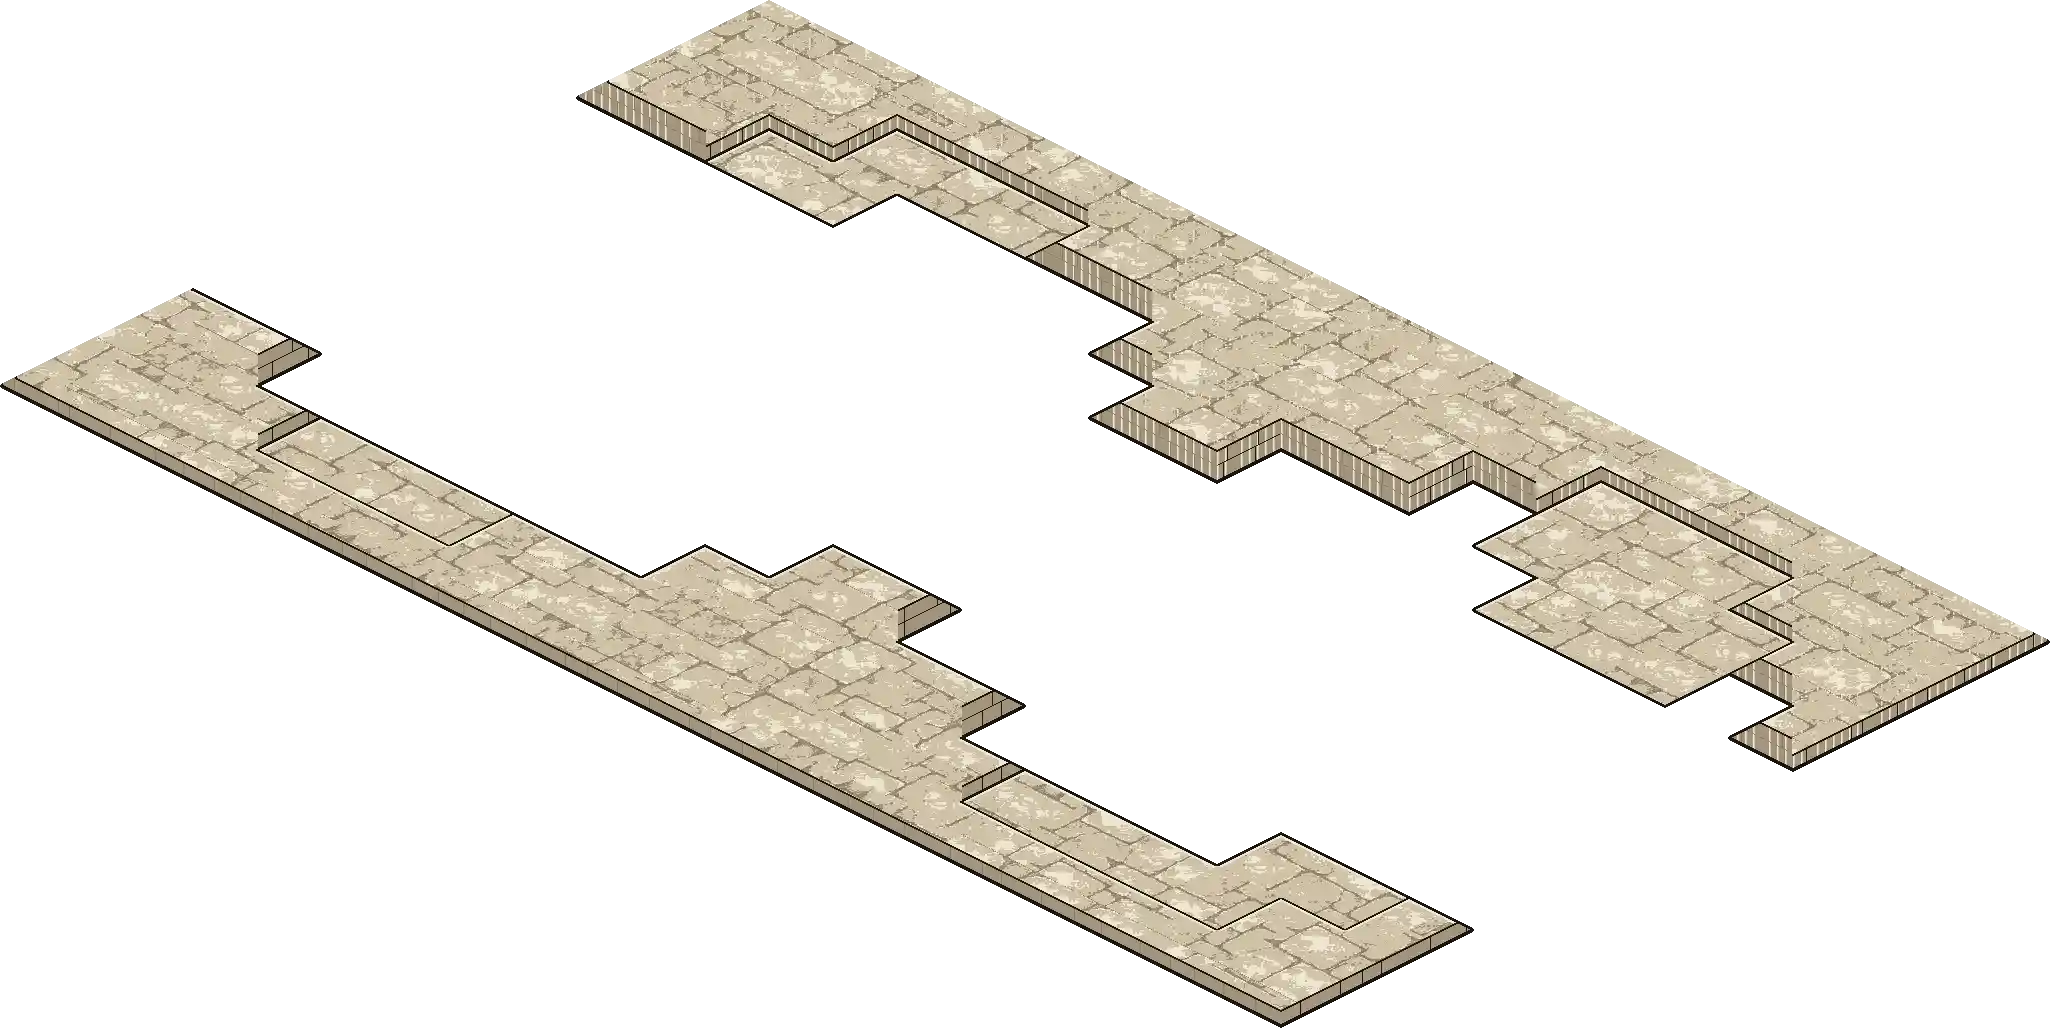
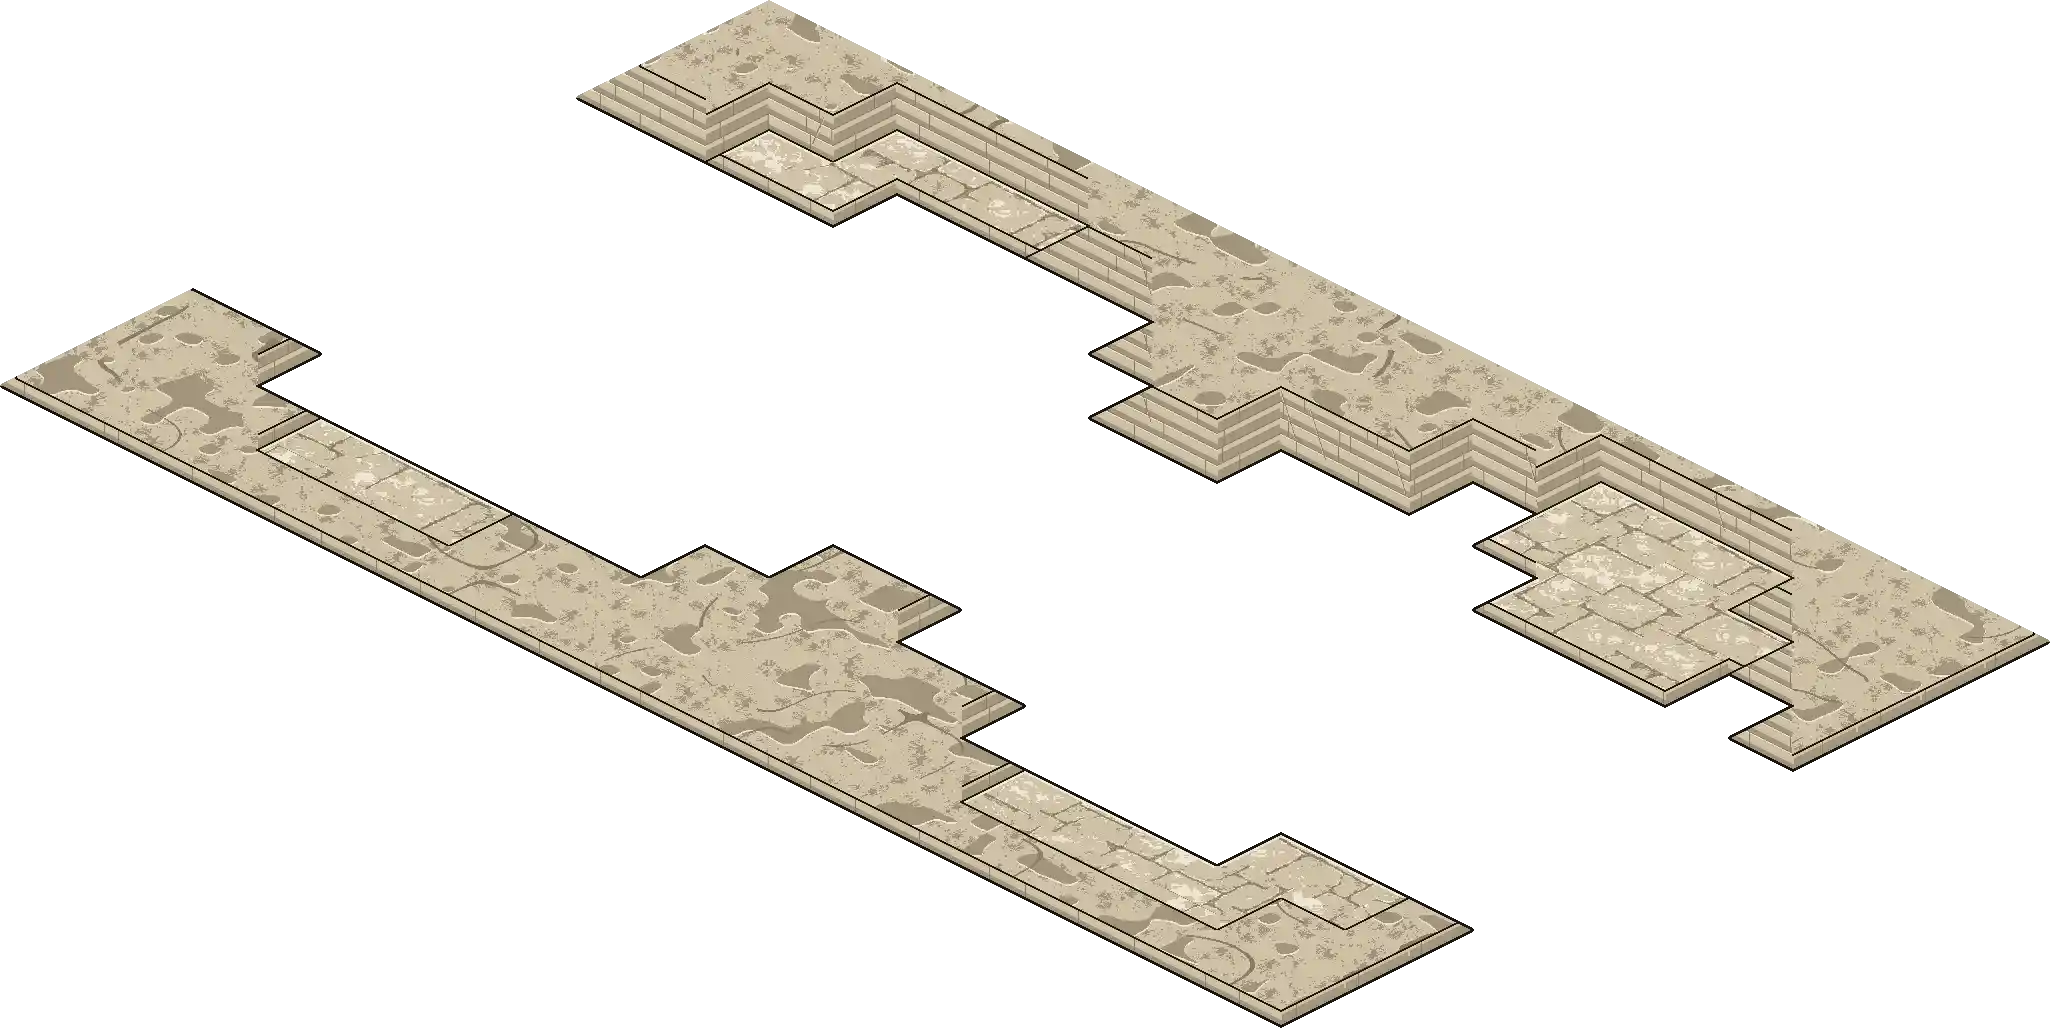
Stand the Cutting's north cut four courses tall over rough rock tops and faced ledges
Replaces the every-8px drill scars, which read as a picket fence, with a few
leaning gouges on the tall north faces only. The stone page's window span is
held inside the 1.25 limit by the art (lit course banding, joint-tone right-face
joints, a one-pixel foot), not by moving the limit.

Changed region(s): [[0.281, 0.0, 0.999, 0.7471], [0.0, 0.2802, 0.718, 0.9961]]

diff --git a/scripts/art/cutting-rock.ts b/scripts/art/cutting-rock.ts
@@ -1,0 +1,189 @@
+/**
+ * The Cutting's raised ground (M5, plan 1.5): its `X` rock and its tier-1 `^`
+ * ledges, painted into the stone page the way `quarry-rock.ts` stands the
+ * gate's and the Driller's rock — each surface lifted by its height, and a
+ * pixel whose lifted top would already be off the surface is the block face
+ * instead, so every face stands straight up from a down-screen (+x/+y) edge
+ * inside the rules' own cells and never paints over a playable one.
+ *
+ * It is its own painter, not the shared one, for three reasons the round-2
+ * review gave (M5 A3):
+ *
+ * - **The back edge is sheer and tall.** The north cut (rows 0 to
+ *   `CUTTING_NORTH_FACE_LAST_ROW`) stands `NORTH_RISE`, four courses over the
+ *   road and three over a ledge, where the shared painter caps every face at
+ *   two. The south run keeps the shared heights — two courses over the bays,
+ *   one over a ledge, and a one-course lip at the board's edge — so nothing
+ *   tall stands between the camera and the southern bays. All of it is ground
+ *   page under the units, so a tall face can never hide one.
+ * - **Rock and ledge read apart.** A ledge is walkable, so it keeps the dressed
+ *   `block` paving and gains a one-course face of its own. The rock is not, so
+ *   its top is rough: the `block` tones laid over the spoil row's chipped
+ *   structure, small chipped hollows and long joint-tone fissures, and no
+ *   slab joints at all.
+ * - **Scars are few.** A drill scar every 8 px read as a picket fence along
+ *   every face. Now a tall north face carries at most one long leaning gouge
+ *   in a `GOUGE_SPAN`-pixel stretch, in fewer than half of them, and the
+ *   other faces none.
+ *
+ * The taller faces are also what pushed the stone page's darkest window past
+ * the §3 span of 1.25 (to 1.43). The limit is not moved; the lit course
+ * banding, the joint-tone joints on the right-facing wall and the one-pixel
+ * foot bring it back inside, which `quarry-route-ground.test.ts` holds.
+ */
+import { parseHex } from './lib/image';
+import { tileNoise } from '../../src/render/painters/shapes';
+import { fieldNoise, QUARRY_GROUND_TONES } from './quarry-village-material';
+import type { QuarryMaterial, Rgb } from './quarry-village-material';
+import type { MapDef } from '../../src/core/types';
+
+/** One course of cut block, as the shared rock's (`ROCK_COURSE`). */
+export const COURSE = 16;
+/** The rows of the north cut, the face the road was driven through. */
+export const CUTTING_NORTH_FACE_LAST_ROW = 3;
+/** How high the north cut's rock stands above the road: four courses. */
+export const NORTH_RISE = 4 * COURSE;
+/** How high the south run's rock stands above its bays: two courses. */
+export const SOUTH_RISE = 2 * COURSE;
+/** A tier-1 ledge stands one course, as the forest's shelf does. */
+export const LEDGE_RISE = COURSE;
+/** One gouge at most in every stretch of this many pixels along a tall face. */
+export const GOUGE_SPAN = 72;
+/** The share of stretches that draw one. */
+const GOUGE_SHARE = 0.4;
+
+/** A cut block runs this far along its course, give or take: a bench, not brickwork. */
+const BLOCK = 56;
+/** How finely the hollows break the rock's top, per tile. */
+const HOLLOW_SCALE = 3.2;
+/** How far down each course its lit upper band reaches, rim line included. */
+const CHAMFER = 10;
+/** Where the smooth field breaks the rock's top into a hollow. */
+const HOLLOW = 0.72;
+const LIP_INK = 2;
+/** The foot takes one pixel; the footprint's own ink line either side does the rest. */
+const FOOT_INK = 1;
+
+/** Logical coordinates of a world pixel. */
+const logical = (wx: number, wy: number): { x: number; y: number } => ({
+  x: ((wx - 768) / 64 + wy / 32) / 2,
+  y: (wy / 32 - (wx - 768) / 64) / 2,
+});
+
+export type RaisedPainter = (
+  material: QuarryMaterial,
+  wx: number,
+  wy: number,
+  rim: boolean,
+) => Rgb | null;
+
+/**
+ * The painter for the Cutting's `X` and `^` pixels, or null for any other
+ * cell. `rim` is whether the pixel sits in the lit rim of its cell's
+ * up-screen edge; only a ledge top takes it, since the rock's top is rough.
+ */
+export function cuttingRaised(map: MapDef): RaisedPainter {
+  const keyAt = (wx: number, wy: number): { key: string | undefined; y: number } => {
+    const { x, y } = logical(wx, wy);
+    return { key: map.rows[Math.floor(y)]?.[Math.floor(x)], y: Math.floor(y) };
+  };
+  /** How far a cell's surface stands above the road, in world pixels. */
+  const height = (key: string | undefined, row: number): number =>
+    key === 'X'
+      ? row <= CUTTING_NORTH_FACE_LAST_ROW
+        ? NORTH_RISE
+        : SOUTH_RISE
+      : key === '^'
+        ? LEDGE_RISE
+        : 0;
+  const block = QUARRY_GROUND_TONES.block;
+  const tone = {
+    base: parseHex(block.base),
+    shadow: parseHex(block.shadow),
+    rim: parseHex(block.rim),
+    joint: parseHex(block.joint),
+  } as const;
+
+  /** The rough top of the rock at a logical point. */
+  const roughTop = (material: QuarryMaterial, x: number, y: number): Rgb => {
+    // Long fissures: the level line of a smooth field, broken where a second
+    // field says the crack has closed.
+    const crack = Math.abs(fieldNoise(x * 0.9, y * 0.9, 91) - 0.5);
+    if (crack < 0.012 && fieldNoise(x * 1.7, y * 1.7, 93) > 0.45) return tone.joint;
+    // Chipped hollows where the last lift was levered off: small patches of
+    // the shadow, their broken near lip catching the light.
+    const hollowAt = (hx: number, hy: number): boolean =>
+      fieldNoise(hx * HOLLOW_SCALE + 3, hy * HOLLOW_SCALE + 7, 95) > HOLLOW;
+    if (hollowAt(x, y)) return hollowAt(x + 0.025, y + 0.025) ? tone.shadow : tone.rim;
+    // Elsewhere the spoil row's chipped structure, turned off the grid, in the
+    // block's own tones and without its sparkle: rock, not a laid slab.
+    return material.classOf('spoil', (x + y) * 1.1 + 17, (y - x) * 1.1 + 5) === 'shadow'
+      ? tone.shadow
+      : tone.base;
+  };
+
+  return (material, wx, wy, rim) => {
+    const here = keyAt(wx, wy);
+    const own = height(here.key, here.y);
+    if (own <= 0) return null;
+    // Walk down-screen to the first ground lower than this surface.
+    let drop = 1;
+    let front = keyAt(wx, wy + drop);
+    while (drop <= own && height(front.key, front.y) >= own) front = keyAt(wx, wy + ++drop);
+    // Off the board the rock stands one course over the surround's terrace.
+    const rise = front.key === undefined ? COURSE : own - height(front.key, front.y);
+    if (drop > rise) {
+      const top = logical(wx, wy + own);
+      if (here.key === '^')
+        return rim ? material.rimOf('block') : material.colour('block', top.x, top.y);
+      return roughTop(material, top.x, top.y);
+    }
+    const foot = logical(wx, wy + drop - 1);
+    const exit = logical(wx, wy + drop);
+    const right =
+      Math.floor(exit.x) > Math.floor(foot.x) && Math.floor(exit.y) === Math.floor(foot.y);
+    const face = drop - 1;
+    if (drop > rise - LIP_INK || face < FOOT_INK) return material.ink;
+    const course = Math.floor(face / COURSE);
+    // Blocks break joint course to course, and each runs its own length.
+    const run = Math.floor(wx) + course * (BLOCK / 2);
+    const index = Math.floor(run / BLOCK);
+    const jointAt = index * BLOCK + 4 + Math.floor(tileNoise(index, course, 7) * (BLOCK - 8));
+    const joint = face % COURSE === 0 || run === jointAt;
+    if (joint) return tone.joint;
+    // Each course catches the light on its upper arris: on the left-facing
+    // wall a pale line under the joint, a band of the base, then the shadow;
+    // on the right-facing wall, turned further from the light, a narrower band
+    // and no pale line. It is what stacks the courses into height, and it is
+    // also what keeps a window full of tall face inside the §3 span of the
+    // paving.
+    const up = face % COURSE;
+    if (right) return up >= COURSE - CHAMFER / 2 ? tone.base : tone.shadow;
+    if (rise >= 3 * COURSE) {
+      const gouge = gougeAt(wx, face, rise);
+      if (gouge) return tone[gouge];
+    }
+    return up >= COURSE - 1 ? tone.rim : up >= COURSE - CHAMFER ? tone.base : tone.shadow;
+  };
+}
+
+/**
+ * A plug-and-feather gouge on a tall north face: one long groove, leaning,
+ * from under the top lip down most of the face, in one stretch of
+ * `GOUGE_SPAN` pixels out of every few. Its floor is the joint tone and its
+ * lit side one pixel of the block's base.
+ */
+function gougeAt(wx: number, face: number, rise: number): 'joint' | 'base' | null {
+  const stretch = Math.floor(wx / GOUGE_SPAN);
+  if (tileNoise(stretch, 0, 13) > GOUGE_SHARE) return null;
+  const top = rise - LIP_INK - 3 - Math.floor(tileNoise(stretch, 1, 13) * 6);
+  const length = Math.floor(rise * (0.5 + 0.3 * tileNoise(stretch, 2, 13)));
+  if (face > top || face < top - length) return null;
+  const start =
+    stretch * GOUGE_SPAN + 12 + Math.floor(tileNoise(stretch, 3, 13) * (GOUGE_SPAN - 24));
+  const lean = tileNoise(stretch, 4, 13) > 0.5 ? 0.35 : -0.35;
+  const at = start + Math.round((top - face) * lean);
+  const column = Math.floor(wx);
+  if (column === at) return 'joint';
+  return column === at - Math.sign(lean) ? 'base' : null;
+}

diff --git a/scripts/art/quarry-route-ground.ts b/scripts/art/quarry-route-ground.ts
@@ -56,6 +56,7 @@ import {
   QUARRY_GROUND_TONES,
 } from './quarry-village-material';
 import { ROCK_COURSE, rockPainter } from './quarry-rock';
+import { cuttingRaised } from './cutting-rock';
 import type { QuarryMaterial, QuarryTone, Rgb } from './quarry-village-material';
 
 /** One logical tile is 64x32 scene pixels; see `forest-route-ground.ts`. */
@@ -214,54 +215,6 @@ function cellAt(px: number, py: number): { gx: number; gy: number; x: number; y:
   return { gx, gy, x: Math.floor(gx), y: Math.floor(gy) };
 }
 
-/**
- * The last row of the Cutting's north wall: rows 0-3 are the cut the road was
- * driven through, rows 8-11 the sawn south lip facing the camera.
- */
-export const CUTTING_NORTH_FACE_LAST_ROW = 3;
-/** One drill scar every this many world pixels along a face, give or take a missed hole. */
-export const DRILL_PITCH = 8;
-
-/**
- * Plug-and-feather drill scars on the Cutting's north faces (M5, plan 1.5):
- * the half-pipe each drilled hole leaves when the block splits away, one
- * every `DRILL_PITCH` pixels, the odd one missed. Each runs the whole height of
- * the face as the half-pipe's lit side — a pixel of the `block` rim, then one
- * of its base, with the face's own shadow as the groove's floor — so they read
- * as tooling on the one rock the gate and the Driller share and the palette
- * stays the rock's own. A dark groove would push the stone page's darkest
- * window (the NE ledge's corner, where the faces crowd) outside the §3 span of
- * its paving; the lit side lifts it instead. Only
- * the face's field is scarred — its course joints, lip ink and top are left as
- * the shared painter draws them — and the south faces stay a clean sawn lip.
- * Every other map's rock is passed through untouched.
- */
-function drillScars(map: MapDef, paint: ReturnType<typeof rockPainter>): typeof paint {
-  if (map.id !== AMBUSH_ROAD.id) return paint;
-  const field = parseHex(QUARRY_GROUND_TONES.block.shadow);
-  const lip = parseHex(QUARRY_GROUND_TONES.block.rim);
-  const scar = parseHex(QUARRY_GROUND_TONES.block.base);
-  return (material, wx, wy, rim) => {
-    const rgb = paint(material, wx, wy, rim);
-    if (rgb[0] !== field[0] || rgb[1] !== field[1] || rgb[2] !== field[2]) return rgb;
-    const { y } = logicalCell(wx, wy);
-    if (y > CUTTING_NORTH_FACE_LAST_ROW) return rgb;
-    const column = Math.floor(wx);
-    const hole = Math.floor(column / DRILL_PITCH);
-    const across = column % DRILL_PITCH;
-    if (across > 1 || tileNoise(hole, 0, 13) < 0.2) return rgb;
-    return across === 0 ? lip : scar;
-  };
-}
-
-/** The cell a world pixel falls in. */
-function logicalCell(wx: number, wy: number): { x: number; y: number } {
-  return {
-    x: Math.floor(((wx - 768) / 64 + wy / 32) / 2),
-    y: Math.floor((wy / 32 - (wx - 768) / 64) / 2),
-  };
-}
-
 export function packQuarryGround(
   map: MapDef,
   material: QuarryMaterial,
@@ -273,14 +226,14 @@ export function packQuarryGround(
   const spoilFloor = openFloor(map, 'spoil');
   const earthFloor = openFloor(map, 'earth');
   // The terrace wall's faces follow the tiers in front of them.
-  const rockPixel = drillScars(
-    map,
-    rockPainter(map.rows, (key) =>
-      key === undefined
-        ? ROCK_COURSE
-        : Math.max(0, 2 - (map.legend[key]?.elevation ?? 0)) * ROCK_COURSE,
-    ),
+  const rockPixel = rockPainter(map.rows, (key) =>
+    key === undefined
+      ? ROCK_COURSE
+      : Math.max(0, 2 - (map.legend[key]?.elevation ?? 0)) * ROCK_COURSE,
   );
+  // The Cutting stands its rock and its ledges with its own painter
+  // (`cutting-rock.ts`): a tall north cut, rough rock tops, faced ledges.
+  const raised = map.id === AMBUSH_ROAD.id ? cuttingRaised(map) : null;
 
   for (let py = 0; py < QUARRY_PAGE.height; py++)
     for (let px = 0; px < QUARRY_PAGE.width; px++) {
@@ -382,14 +335,18 @@ export function packQuarryGround(
 
       const wx = QUARRY_PAGE.x + px + 0.5,
         wy = QUARRY_PAGE.y + py + 0.5;
+      const lifted =
+        edge < INK_HALF ? null : raised?.(material, wx, wy, lit && edge < INK_HALF + RIM_WIDTH);
       paint(
         edge < INK_HALF
           ? material.ink
-          : key === 'X'
-            ? rockPixel(material, wx, wy, lit && edge < INK_HALF + RIM_WIDTH)
-            : lit && edge < INK_HALF + RIM_WIDTH
-              ? material.rimOf(tone)
-              : (heap ?? material.colour(tone, gx, gy)),
+          : lifted
+            ? lifted
+            : key === 'X'
+              ? rockPixel(material, wx, wy, lit && edge < INK_HALF + RIM_WIDTH)
+              : lit && edge < INK_HALF + RIM_WIDTH
+                ? material.rimOf(tone)
+                : (heap ?? material.colour(tone, gx, gy)),
       );
     }
   return images;

diff --git a/scripts/art/quarry-route-ground.test.ts b/scripts/art/quarry-route-ground.test.ts
@@ -26,6 +26,7 @@ import {
   buildQuarryGround,
 } from './quarry-route-ground';
 import { buildGateGround, plainSpoil } from './quarry-modular-ground';
+import { COURSE, NORTH_RISE, SOUTH_RISE } from './cutting-rock';
 import { luma, measure, readPlate } from './forest-ground-measure';
 
 /** DL-2 §3: no 128 px window inside a packed plate may span more than this. */
@@ -347,6 +348,80 @@ it("keeps the Cutting's lane apart from its spoil shoulders", () => {
   // closed the old 96 shoulder cells down to the bays either side of the road.
   expect(lanes).toBe(60);
   expect(shoulders).toBe(55);
+});
+
+/** The stone plate's colour at a world pixel, or null where it is clear. */
+function stoneAt(built: Built, wx: number, wy: number): string | null {
+  const { image, x, y } = plate(built, 'stone');
+  const rgba = pixelAt(image, Math.floor(wx - x), Math.floor(wy - y));
+  return rgba[3] === 255 ? toHex([rgba[0], rgba[1], rgba[2]]) : null;
+}
+
+/**
+ * M5 round 2. The Cutting's north cut is sheer and tall and its south run a
+ * low lip: read up the plate from the foot of a face, the top lip's ink sits
+ * where the face's height says it does. Before round 2 every face was at most
+ * two courses, so the north one would find its lip at 32, not 64.
+ */
+it.each([
+  // X (12,2) over the floor at (12,3): the north cut, four courses. Its
+  // column climbs through rock the whole way; a column that climbs into a
+  // ledge is cut short there, because no face paints over a playable cell.
+  ['north cut over the floor', 12.5, 3, NORTH_RISE],
+  // X (12,9) over the bay at (13,9): the south run, two courses.
+  ['south run over a bay', 13, 9.5, SOUTH_RISE],
+  // X (5,11) at the board's south edge: a one-course lip.
+  ['south edge lip', 5.5, 12, COURSE],
+] as const)("stands the Cutting's %s at its height", (_name, gx, gy, rise) => {
+  const wx = 768 + (gx - gy) * 64,
+    foot = (gx + gy) * 32;
+  const inkBetween = (from: number, to: number): number => {
+    let found = 0;
+    for (let k = from; k <= to; k++) if (stoneAt(cutting, wx, foot - k - 0.5) === INK) found++;
+    return found;
+  };
+  // The top lip, a pixel either side of the rise for rounding.
+  expect(inkBetween(rise - 3, rise + 1), 'lip ink at the rise').toBeGreaterThan(0);
+  // A clean face below it: joints are the joint tone, never ink.
+  expect(inkBetween(4, rise - 5), 'no ink on the face').toBe(0);
+  // And the rough top above it carries none either.
+  expect(inkBetween(rise + 3, rise + 12), 'no ink on the top').toBe(0);
+});
+
+/**
+ * M5 round 2. A ledge is walkable and the rock is not, and they must read
+ * apart: the ledge keeps the block's dressed paving, whose pale rim share is
+ * the slabs' worn arrises, while the rock's rough top takes the rim only on
+ * the lip of a chipped hollow.
+ */
+it("tells the Cutting's ledge tops from its rock tops", () => {
+  const rim: string = QUARRY_GROUND_TONES.block.rim;
+  const share = (cells: readonly (readonly [number, number])[]): number => {
+    let hits = 0,
+      all = 0;
+    for (const [cx, cy] of cells)
+      for (let v = 0.3; v <= 0.7; v += 0.02)
+        for (let u = 0.3; u <= 0.7; u += 0.02) {
+          const hex = stoneAt(cutting, 768 + (cx + u - cy - v) * 64, (cx + u + cy + v) * 32);
+          if (!hex) continue;
+          all++;
+          if (hex === rim) hits++;
+        }
+    return hits / all;
+  };
+  // The NE ledge's middle, and the rock top behind the cut's tallest run.
+  const ledge = share([
+    [15, 2],
+    [16, 2],
+    [16, 3],
+  ]);
+  const rock = share([
+    [9, 0],
+    [10, 0],
+    [11, 0],
+  ]);
+  expect(ledge).toBeGreaterThan(0.08);
+  expect(rock).toBeLessThan(ledge / 2);
 });
 
 it('ships the plates the packers build, inside the registered page', async () => {

diff --git a/src/content/scenes/quarryRouteGround.ts b/src/content/scenes/quarryRouteGround.ts
@@ -57,7 +57,7 @@ export const CUTTING_GROUND_REGIONS = [
     y: -2,
     width: 2050,
     height: 1028,
-    bytes: 67822,
+    bytes: 64232,
   },
 ] as const;
 
